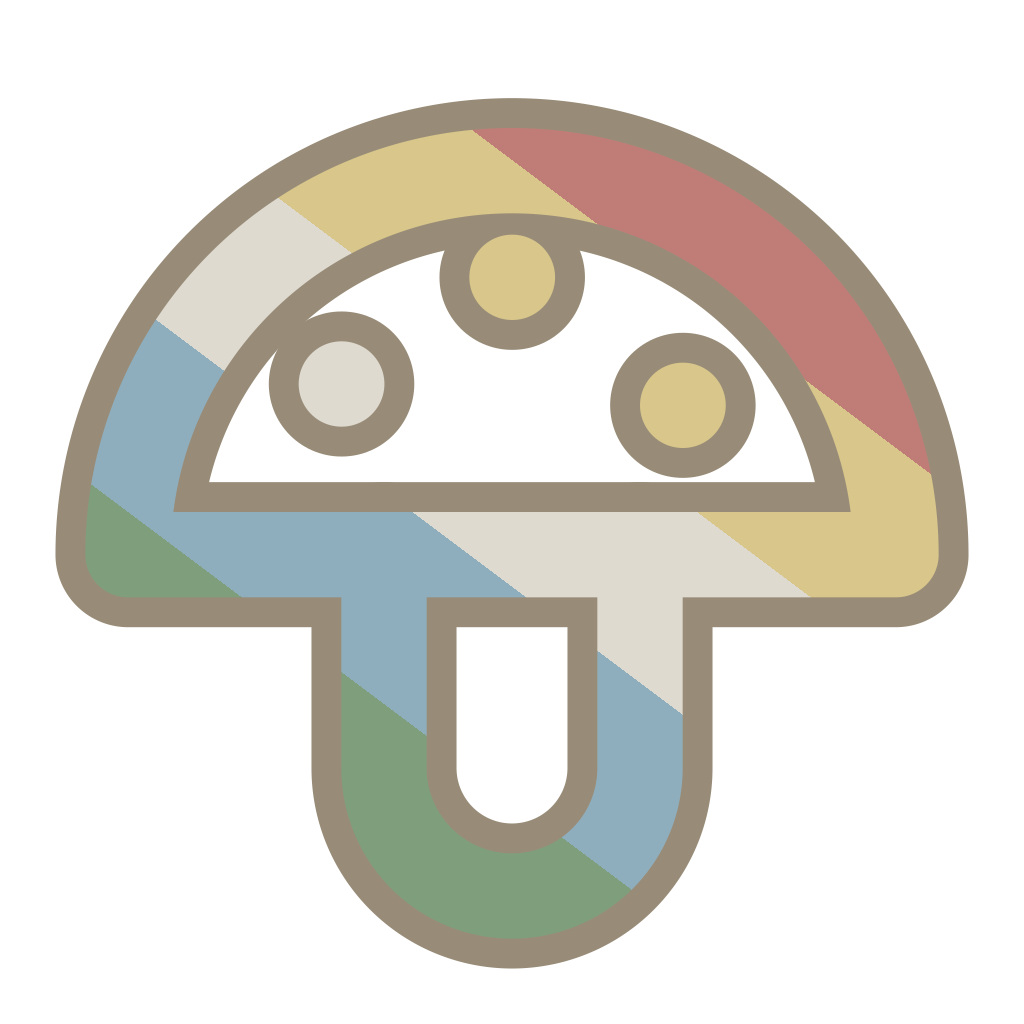
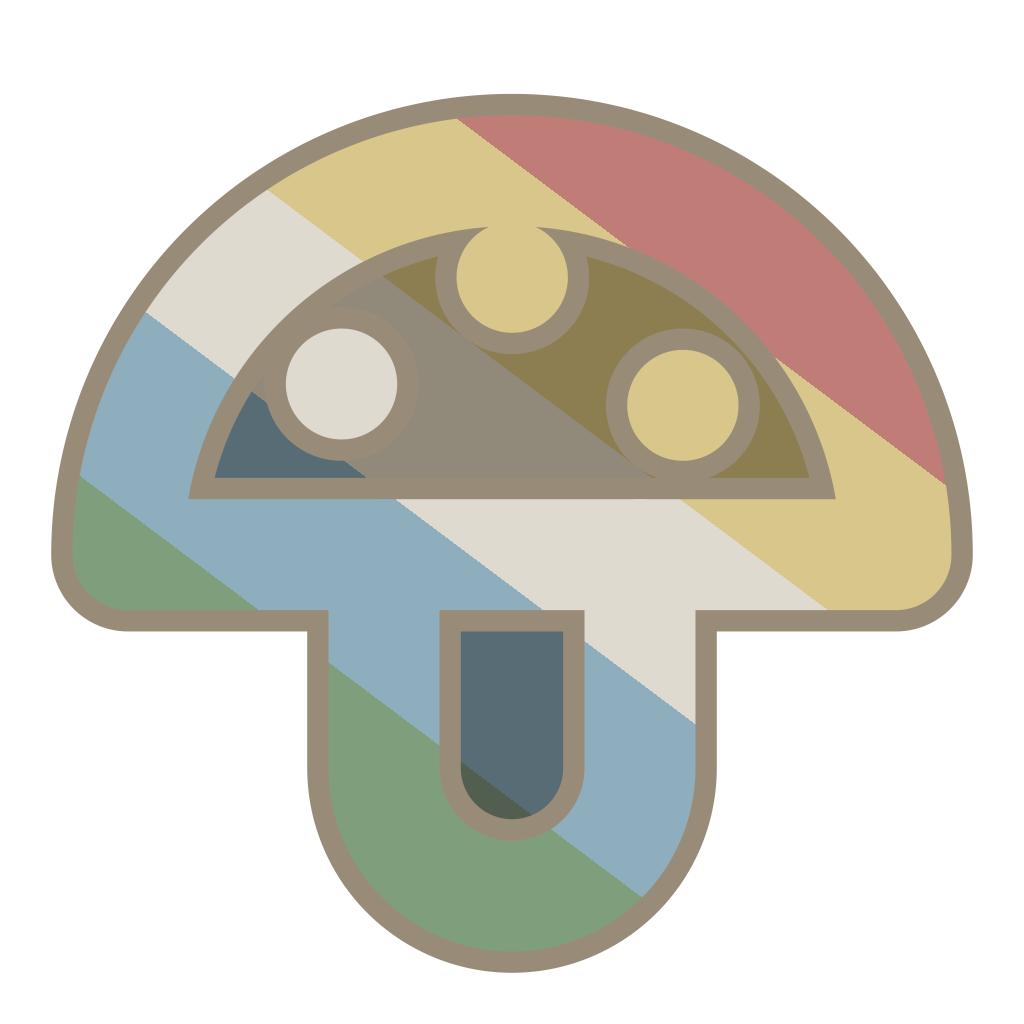
Fill mushrooms with muted pride stripes and thicken line work
Claude-Session: https://claude.ai/code/session_013XnE8B2YJcK5b4XFHjKHBz

Changed region(s): [[0.0312, 0.0938, 0.9688, 0.9688], [0.1562, 0.1875, 0.8438, 0.5], [0.4062, 0.5625, 0.5938, 0.8438]]

diff --git a/scripts/make-custom.py b/scripts/make-custom.py
@@ -2,11 +2,13 @@
 """Draw the binder's custom (non-Lucide) illustrations into assets/custom/.
 
   bigmushroom      Lucide-style mushroom (Lucide has none), outlined in the
-                   disability pride colours in flag order
+                   disability pride colours in flag order, filled with
+                   the same colours darker and duller
   mushroomvarious  a small patch of three of those mushrooms on a yellow oval
 
 Usage: python3 scripts/make-custom.py   (needs `pip install cairosvg`)
 """
+import colorsys
 import pathlib
 
 import cairosvg
@@ -17,7 +19,6 @@ PNG_SIZE = 1024
 # Brand pride colours in disability-flag order (Ask Herby Design System).
 PRIDE = ["#C07D78", "#D8C68A", "#DEDAD0", "#8FAEBD", "#7F9E7C"]
 TAUPE = "#988C78"         # mark-outline taupe
-PAPER = "#FFFFFF"         # hb-paper
 PATCH = "#E3CD9E"         # yellow from the user's original pixel mark
 
 # Lucide grid: 24 px, 2 px stroke, round caps and joins.
@@ -26,33 +27,50 @@ STEM = "M9 13v5a3 3 0 0 0 6 0v-5"
 SPOTS = ["M8 9h.01", "M12 6.5h.01", "M16 9.5h.01"]
 
 
-def gradient():
+LINE = 2.6      # pride line weight (Lucide default is 2)
+UNDERLAY = 3.6  # taupe line under it
+FILL_LIGHTNESS = 0.62   # fills: pride colours darkened ...
+FILL_SATURATION = 0.55  # ... and dulled
+
+
+def muted(hexcode):
+    r, g, b = (int(hexcode[i:i + 2], 16) / 255 for i in (1, 3, 5))
+    h, l, s = colorsys.rgb_to_hls(r, g, b)
+    r, g, b = colorsys.hls_to_rgb(h, l * FILL_LIGHTNESS, s * FILL_SATURATION)
+    return "#%02X%02X%02X" % tuple(round(v * 255) for v in (r, g, b))
+
+
+def gradient(gid, colours):
     # Diagonal hard-stop gradient: stripes run top-left to bottom-right,
     # first colour at the top right, as on the flag.
-    n = len(PRIDE)
+    n = len(colours)
     stops = "".join(
         f'<stop offset="{i / n:.2f}" stop-color="{c}"/><stop offset="{(i + 1) / n:.2f}" stop-color="{c}"/>'
-        for i, c in enumerate(PRIDE))
-    return ('<linearGradient id="pride" gradientUnits="userSpaceOnUse" '
+        for i, c in enumerate(colours))
+    return (f'<linearGradient id="{gid}" gradientUnits="userSpaceOnUse" '
             f'x1="19" y1="4" x2="7" y2="20">{stops}</linearGradient>')
 
 
-def mushroom(fill="none", scale=1.0):
+def gradients():
+    return gradient("pride", PRIDE) + gradient("pride-fill", [muted(c) for c in PRIDE])
+
+
+def mushroom(scale=1.0):
     """One mushroom on the 24 px grid. Stroke widths are divided by `scale`
     so every mushroom in a group prints with the same line weight."""
     paths = "".join(f'<path d="{d}"/>' for d in [CAP, STEM, *SPOTS])
     common = 'stroke-linecap="round" stroke-linejoin="round"'
     body = f'<path d="{CAP}"/><path d="{STEM} z"/>'
     return (
-        (f'<g fill="{fill}" stroke="none">{body}</g>' if fill != "none" else "")
+        f'<g fill="url(#pride-fill)" stroke="none">{body}</g>'
         # Taupe underlay keeps the pale stripes visible on white paper.
-        + f'<g fill="none" {common} stroke="{TAUPE}" stroke-width="{3.4 / scale:.3f}">{paths}</g>'
-        + f'<g fill="none" {common} stroke="url(#pride)" stroke-width="{2 / scale:.3f}">{paths}</g>')
+        + f'<g fill="none" {common} stroke="{TAUPE}" stroke-width="{UNDERLAY / scale:.3f}">{paths}</g>'
+        + f'<g fill="none" {common} stroke="url(#pride)" stroke-width="{LINE / scale:.3f}">{paths}</g>')
 
 
 def bigmushroom():
     return ('<svg xmlns="http://www.w3.org/2000/svg" width="24" height="24" viewBox="0 0 24 24">'
-            f"{gradient()}{mushroom()}</svg>\n")
+            f"{gradients()}{mushroom()}</svg>\n")
 
 
 # (x offset, y offset, scale) on a 48 px canvas, back to front.
@@ -61,10 +79,10 @@ PATCH_MUSHROOMS = [(26.5, 14.5, 0.8), (3.5, 17.5, 0.65), (10.5, 6.5, 1.1)]
 
 def mushroomvarious():
     group = "".join(
-        f'<g transform="translate({x} {y}) scale({s})">{mushroom(PAPER, s)}</g>'
+        f'<g transform="translate({x} {y}) scale({s})">{mushroom(s)}</g>'
         for x, y, s in PATCH_MUSHROOMS)
     return ('<svg xmlns="http://www.w3.org/2000/svg" width="48" height="48" viewBox="0 0 48 48">'
-            f'{gradient()}<ellipse cx="24" cy="31.5" rx="21" ry="6" fill="{PATCH}"/>'
+            f'{gradients()}<ellipse cx="24" cy="31.5" rx="21" ry="6" fill="{PATCH}"/>'
             f"{group}</svg>\n")
 
 

diff --git a/assets/custom/README.md b/assets/custom/README.md
@@ -5,6 +5,6 @@ script and rerun it rather than editing the files.
 
 | File | What it is | Used by |
 |------|------------|---------|
-| `mushroomvarious.*` | Small patch of three `bigmushroom`-style mushrooms (white fill) on a yellow `#E3CD9E` oval, the yellow taken from the user's original pixel mark | every master page and divider |
-| `bigmushroom.*` | Lucide-style mushroom (Lucide has none). Outline in brand pride colours, flag order, over a taupe underlay so the pale stripes show on white | cleaning worksheets |
+| `mushroomvarious.*` | Small patch of three `bigmushroom`-style mushrooms on a yellow `#E3CD9E` oval, the yellow taken from the user's original pixel mark | every master page and divider |
+| `bigmushroom.*` | Lucide-style mushroom (Lucide has none). Outline (2.6 px) in brand pride colours, flag order, over a taupe underlay so the pale stripes show on white; filled with the same stripes darker and duller | cleaning worksheets |
 | `ask-herby-mark.png` | The user's original mark artwork (375 px), the geometry source | not linked |
